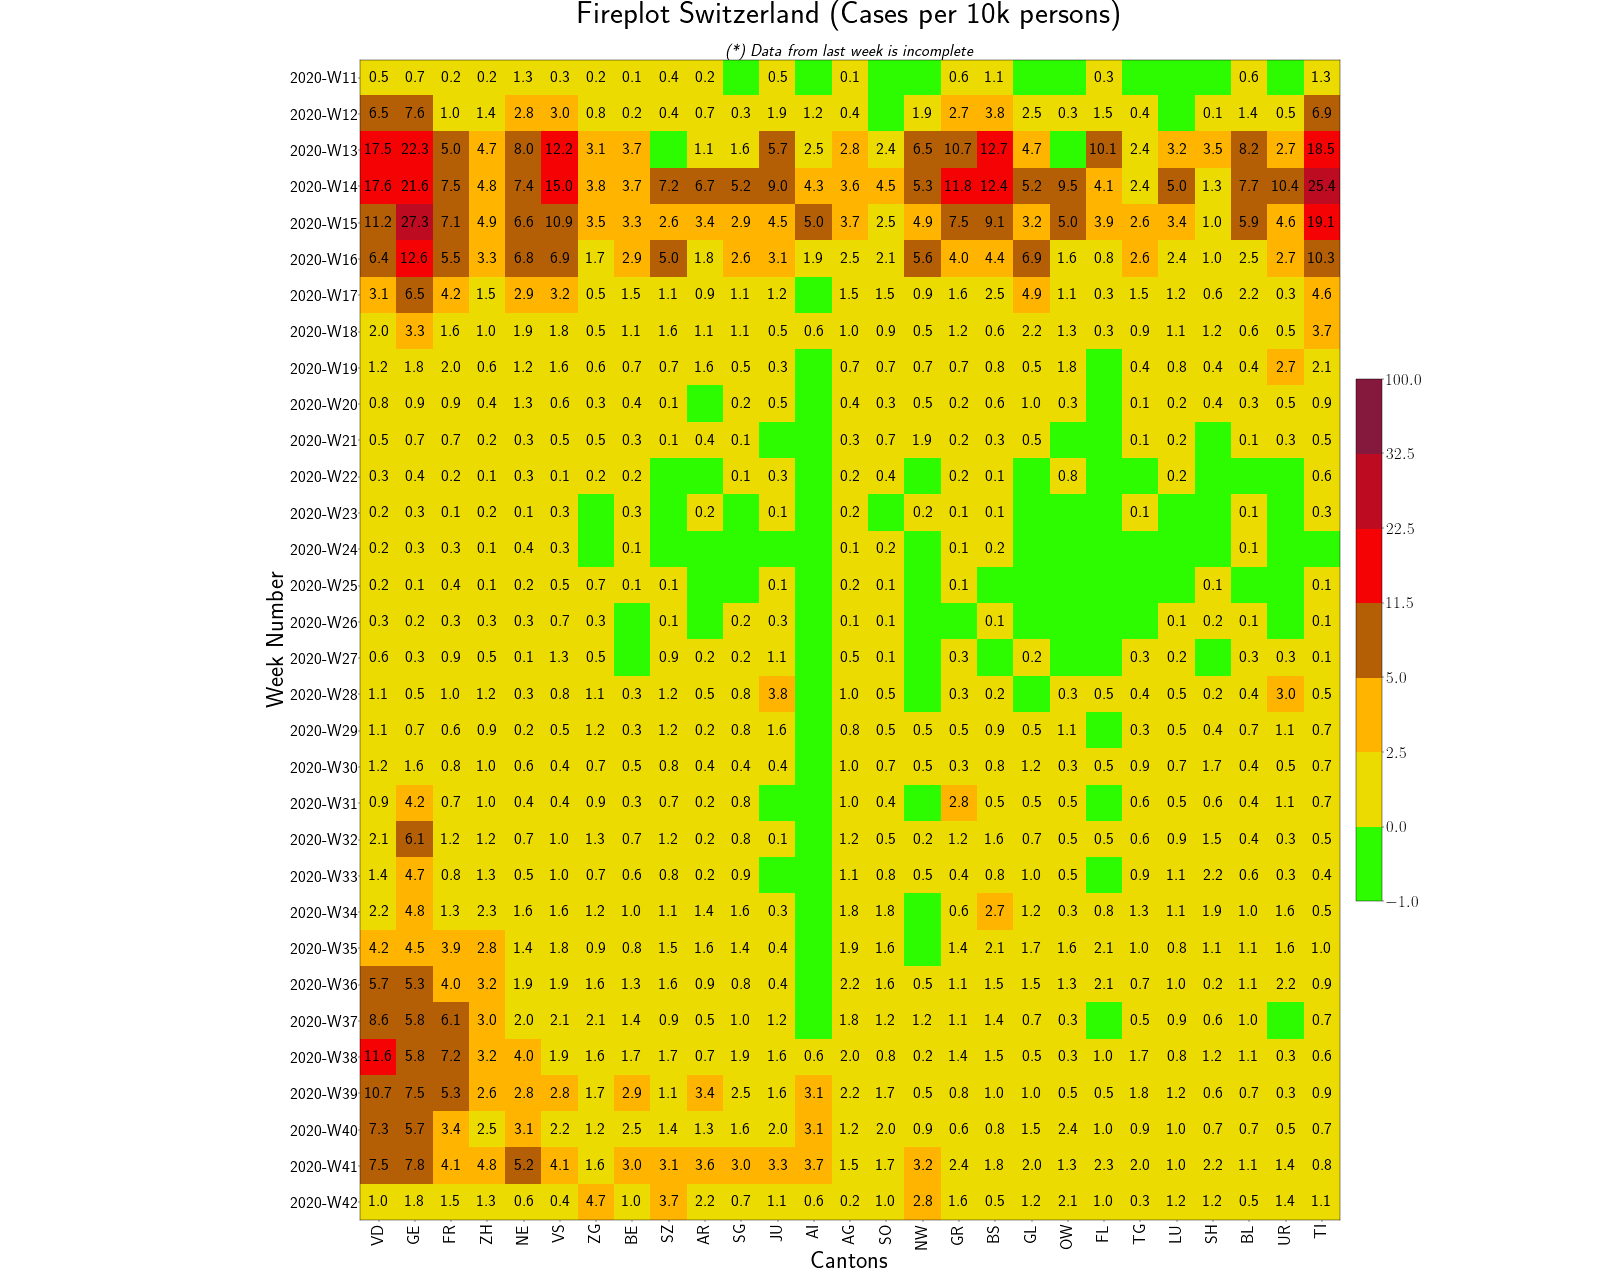
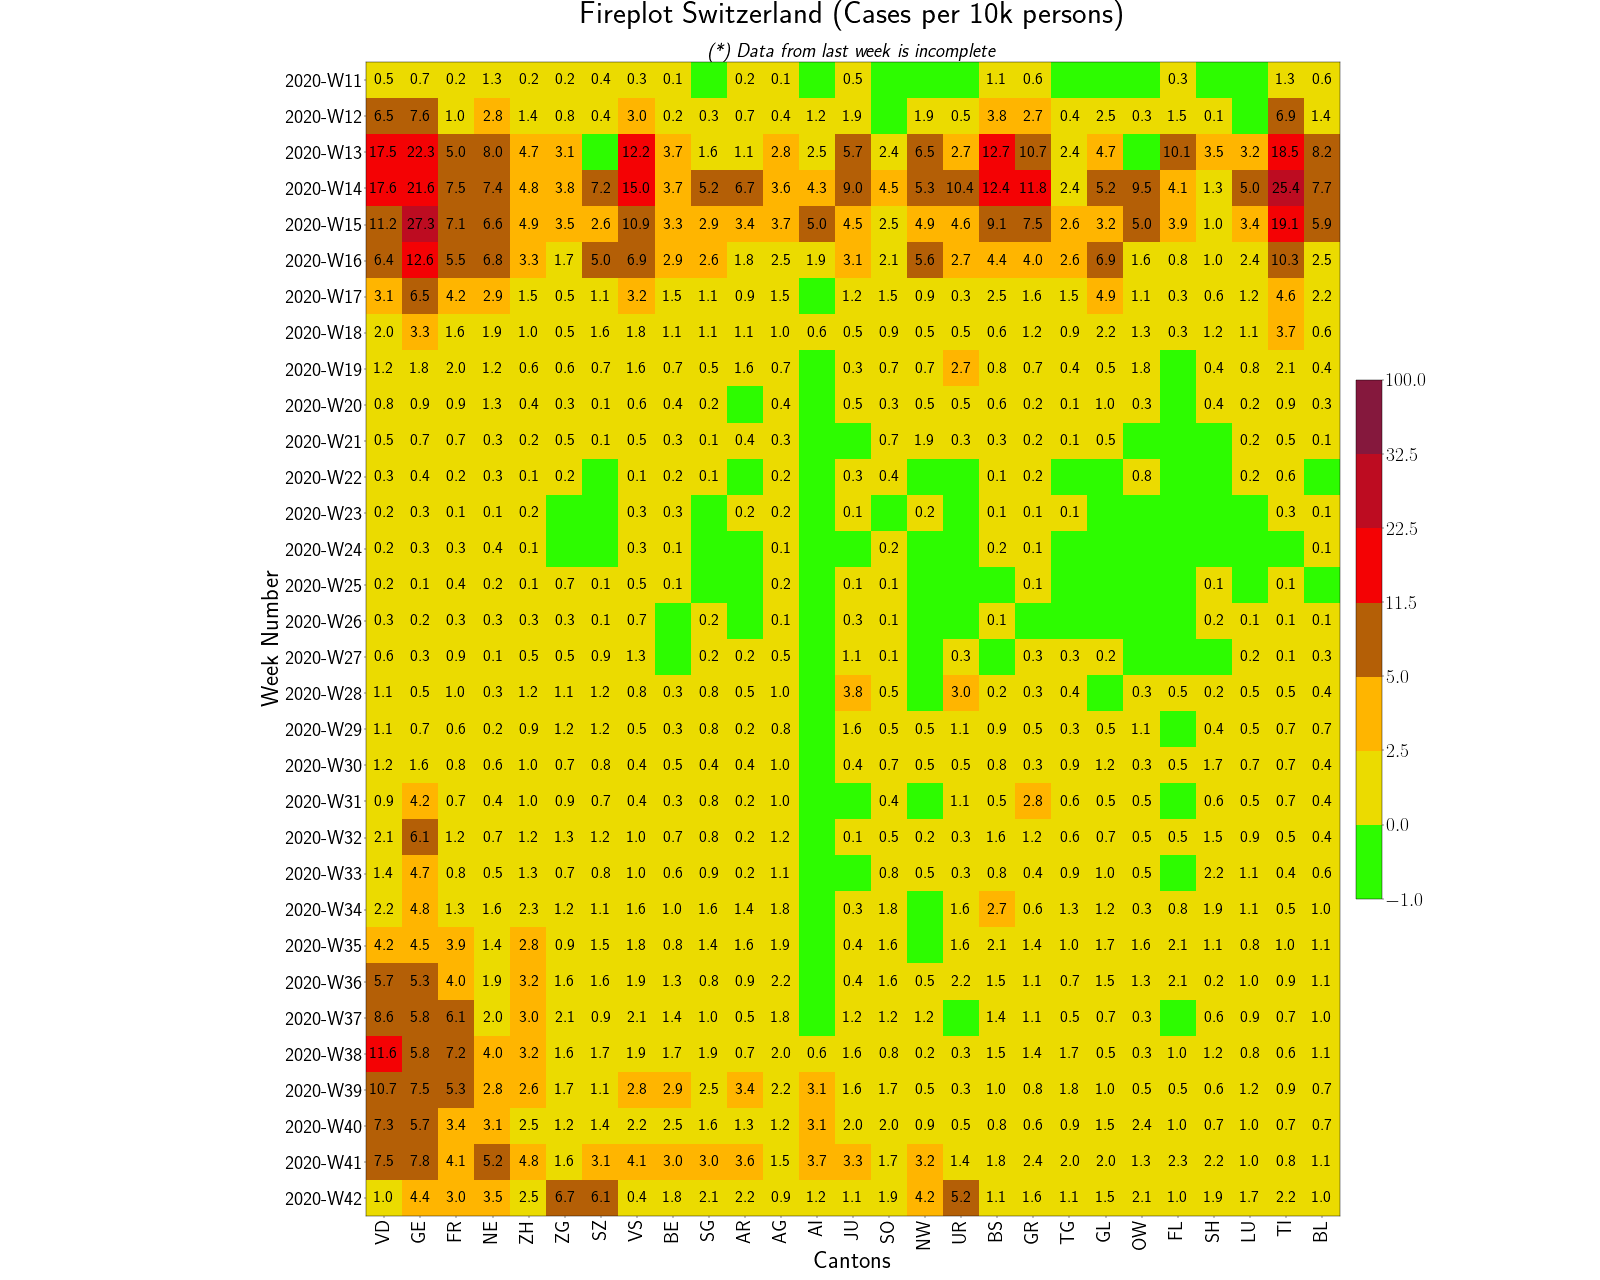
Larger Label Size + Removed Negative Cases

Changed region(s): [[0.1562, 0.0, 0.8438, 1.0]]

diff --git a/fireplot.py b/fireplot.py
@@ -22,7 +22,7 @@ def cell_format(num):
     return '%.1f%s' % (num, ['', 'K', 'M', 'G', 'T', 'P'][magnitude])
 
 
-def fireplot(df, country, start_time=None, most_recent=0, save=True, show=False, fontsize=30, labelsize=30, titlesize=56, Title=None, show_sum=True, grouped_by_week=False, xlabel=None, caption=None, adjustment_factor_y=1.0, legend=False, per_capita=False, compress=True):
+def fireplot(df, country, start_time=None, most_recent=0, save=True, show=False, fontsize=30, labelsize=35, titlesize=56, Title=None, show_sum=True, grouped_by_week=False, xlabel=None, caption=None, adjustment_factor_y=1.0, legend=False, per_capita=False, compress=True):
     # trimming the df
     if caption:
         plt.rc('text', usetex=True)
@@ -59,7 +59,7 @@ def fireplot(df, country, start_time=None, most_recent=0, save=True, show=False,
         bounds=[-1, 0.001, 0.25, 0.5, 1.15, 2.25, 3.25, 10]
         bounds=[-1, 0.01, 2.5, 5, 11.5, 22.5, 32.5, 100]
     else:
-        bounds=[-100000,0.5,9.5,29.5,99.5,999.5,9999.5,100000]
+        bounds=[-1,0.5,9.5,29.5,99.5,999.5,9999.5,100000]
     cmap = colors.ListedColormap(['#2DFC00','#EBDB00','#FFB500','#B45F06', '#F40204','#BD0C21','#85183D'])
     
     if per_capita:
@@ -143,6 +143,8 @@ def fireplot(df, country, start_time=None, most_recent=0, save=True, show=False,
     print(f'Finished with {country}. Date: {date}')
 
 
+def negative_to_zero(x):
+    return max(x,0)
 
 
 def Brazil():
@@ -150,13 +152,13 @@ def Brazil():
     df = pd.read_csv('https://raw.githubusercontent.com/wcota/covid19br/master/cases-brazil-states.csv')
     df = df.pivot_table(index='date',columns='state',values='newCases').fillna(0).drop('TOTAL',axis=1).fillna(0).astype(int)
     df = df[df.sum().sort_values(ascending=False).index]
+    df[df.columns] = df[df.columns].applymap(negative_to_zero)
 
     df['WOY'] = pd.to_datetime(df.index, format='%Y-%m-%d').weekofyear.astype(str) # week of year column
     strptm = lambda s: datetime.strptime('2020-'+s+'-1', "%Y-%W-%w")
     df['WOY'] = df['WOY'].map(strptm).astype(str)
     df_c=df.groupby(['WOY']).sum()
     #print(df_c)
-    plt.rc('text', usetex=True)
     #fireplot(df_c, country='Brazil', grouped_by_week=True, caption=r'(*) Data from last week is incomplete', xlabel='States', adjustment_factor_y=3)
     fireplot(df_c, country='Brazil', grouped_by_week=True, caption=r'(*) Data from last week is incomplete', xlabel='States', adjustment_factor_y=1.1, legend=True)
 
@@ -168,6 +170,8 @@ def USA(partitions=None):
     df = df[df.iloc[-1].sort_values(ascending=False).index].diff()
     df.index.rename('US', inplace=True)
     df = df.fillna(0).astype(int)
+    df[df.columns] = df[df.columns].applymap(negative_to_zero)
+    #print(df)
     
     df['WOY'] = pd.to_datetime(df.index, format='%Y-%m-%d').weekofyear.astype(str) # week of year column
     strptm = lambda s: datetime.strptime('2020-'+s+'-1', "%Y-%W-%w")
@@ -220,17 +224,17 @@ def USA_by_region():
 
     add_pop = lambda s: pop_dict[s]
     df['Population'] = df['Region'].map(add_pop)
-    df['Per Capita Cases'] = df['cases']/df['Population'] * 10000
-
+    df['Per Capita Cases'] = (df['cases']/df['Population'] * 10000)
     df = df.pivot(index='date',columns='Region',values='Per Capita Cases').iloc[32:]
     df = df[df.iloc[-1].sort_values(ascending=False).index].diff().fillna(0)
+    df[df.columns] = df[df.columns].applymap(negative_to_zero)
+    
     df['WOY'] = pd.to_datetime(df.index, format='%Y-%m-%d').weekofyear.astype(str) # week of year column
     strptm = lambda s: datetime.strptime('2020-'+s+'-1', "%Y-%W-%w")
     df['WOY'] = df['WOY'].map(strptm).astype(str)
     df=df.groupby(['WOY']).sum()
     df[df.columns] = df[df.columns].applymap('{:.1f}'.format).applymap(float)
     fireplot(df, country='USA Regions', Title='Fireplot US Regions (Cases per 10k persons)', grouped_by_week=True, caption=r'(*) Data from last week is incomplete', xlabel='Regions', legend=True, per_capita=True)
-
 
 
 def USA_per_capita(partitions=None):
@@ -253,6 +257,8 @@ def USA_per_capita(partitions=None):
 
     df = df.pivot(index='date', columns='state', values='Per Capita Cases')
     df = df[df.iloc[-1].sort_values(ascending=False).index].diff().fillna(0)
+    df[df.columns] = df[df.columns].applymap(negative_to_zero)
+    
     df['WOY'] = pd.to_datetime(df.index, format='%Y-%m-%d').weekofyear.astype(str) # week of year column
     strptm = lambda s: datetime.strptime('2020-'+s+'-1', "%Y-%W-%w")
     df['WOY'] = df['WOY'].map(strptm).astype(str)
@@ -330,6 +336,7 @@ def Italy():
     # df.data = pd.to_datetime(df.data)
     df = df.pivot_table(index='data',columns='denominazione_regione',values='nuovi_positivi')
     df = df[df.sum().sort_values(ascending=False).index]
+    df[df.columns] = df[df.columns].applymap(negative_to_zero)
 
     df['WOY'] = pd.to_datetime(df.index, format='%Y-%m-%d').weekofyear.astype(str) # week of year column
     strptm = lambda s: datetime.strptime('2020-'+s+'-1', "%Y-%W-%w")
@@ -369,6 +376,8 @@ def Italy_PC():
 
     df = df.pivot(index='data', columns='denominazione_regione', values='Per Capita Cases')
     df = df[df.iloc[-1].sort_values(ascending=False).index].diff().fillna(0)
+    df[df.columns] = df[df.columns].applymap(negative_to_zero)
+    
     df['WOY'] = pd.to_datetime(df.index, format='%Y-%m-%d').weekofyear.astype(str) # week of year column
     strptm = lambda s: datetime.strptime('2020-'+s+'-1', "%Y-%W-%w")
     df['WOY'] = df['WOY'].map(strptm).astype(str)
@@ -437,13 +446,14 @@ def Switzerland():
     df = pd.read_csv('https://raw.githubusercontent.com/openZH/covid_19/master/COVID19_Fallzahlen_CH_total_v2.csv')
     df = df.pivot(index='date', columns='abbreviation_canton_and_fl', values='ncumul_conf')
     df[df.columns] = df[df.columns].fillna(method='ffill').fillna(0).diff().fillna(0).astype(int)
+    df[df.columns] = df[df.columns].applymap(negative_to_zero)
 
     df['WOY'] = pd.to_datetime(df.index, format='%Y-%m-%d').weekofyear.astype(str) # week of year column
     strptm = lambda s: datetime.strptime('2020-'+s+'-1', "%Y-%W-%w")
     df['WOY'] = df['WOY'].map(strptm).astype(str)
     df=df.groupby(['WOY']).sum()
     df = df[df.tail(7).sum().sort_values(ascending=False).index]
-    print(df)
+    #print(df)
     
     fireplot(df, country='Switzerland', grouped_by_week=True, caption=r'(*) Data from last week is incomplete', xlabel='Cantons', legend=True)
 
@@ -464,6 +474,7 @@ def Switzerland_PC():
     def divide_by_pop(x):
         return (x/pop_dict[x.name]) * 10000
     df = df[df.columns].apply(divide_by_pop, axis=0)
+    df[df.columns] = df[df.columns].applymap(negative_to_zero)
 
     df['WOY'] = pd.to_datetime(df.index, format='%Y-%m-%d').weekofyear.astype(str) # week of year column
     strptm = lambda s: datetime.strptime('2020-'+s+'-1', "%Y-%W-%w")
@@ -472,7 +483,7 @@ def Switzerland_PC():
     df = df[df.tail(7).sum().sort_values(ascending=False).index]
     
     df[df.columns] = df[df.columns].applymap('{:.1f}'.format).applymap(float)
-    print(df)
+    #print(df)
     fireplot(df, country='Switzerland', Title='Fireplot Switzerland (Cases per 10k persons)',  grouped_by_week=True, caption=r'(*) Data from last week is incomplete', xlabel='Cantons', legend=True, per_capita=True)
 
 
@@ -494,6 +505,8 @@ def Zurich():
 def Sweden():    
     print('Creating Fireplot for Sweden')
     df = pd.read_excel('https://fohm.maps.arcgis.com/sharing/rest/content/items/b5e7488e117749c19881cce45db13f7e/data').drop('Totalt_antal_fall', axis=1)
+    df[df.columns[1:]] = df[df.columns[1:]].applymap(negative_to_zero)
+    
     df['WOY'] = pd.to_datetime(df['Statistikdatum'], format='%Y-%m-%d').map(lambda x: str(x.weekofyear)) # week of year column
     strptm = lambda s: datetime.strptime('2020-'+s+'-1', "%Y-%W-%w")
     df['WOY'] = df['WOY'].map(strptm).astype(str)
@@ -527,6 +540,8 @@ def Sweden_PC():
     df.index = df['Statistikdatum']
     df = df.drop('Statistikdatum', axis=1)
     df = df.apply(test)
+    df[df.columns[1:]] = df[df.columns[1:]].applymap(negative_to_zero)
+    print(df)
     df = df[df.iloc[-1].sort_values(ascending=False).index].fillna(0)
 
     df['WOY'] = pd.to_datetime(df.index, format='%Y-%m-%d').weekofyear.astype(str) # week of year column
@@ -537,7 +552,7 @@ def Sweden_PC():
     #df = df[df.tail(7).sum().sort_values(ascending=False).index]
     df = df[df.sum().sort_values(ascending=False).index]
 
-    print(df)
+    #print(df)
     fireplot(df, country='Sweden', Title='Fireplot Sweden (Cases per 10k persons)',  grouped_by_week=True, caption=r'(*) Data from last week is incomplete', xlabel='Provinces', legend=True, per_capita=True)
 
     return   
@@ -547,6 +562,7 @@ def Australia():
     print('Creating Fireplot for Australia')
     df = pd.read_csv('https://raw.githubusercontent.com/M3IT/COVID-19_Data/master/Data/COVID_AU_state.csv')
     df=df.pivot_table(index='date', columns='state', values='confirmed')
+    df[df.columns] = df[df.columns].applymap(negative_to_zero)
 
     df['WOY'] = pd.to_datetime(df.index, format='%Y-%m-%d').weekofyear.astype(str) # week of year column
     strptm = lambda s: datetime.strptime('2020-'+s+'-1', "%Y-%W-%w")
@@ -554,7 +570,7 @@ def Australia():
     df=df.groupby(['WOY']).sum()
     df = df[df.sum().sort_values(ascending=False).index]
 
-    print(df) 
+    #print(df) 
     fireplot(df, country='Australia', Title='Fireplot Australia (Cases)', grouped_by_week=True, caption=r'(*) Data from last week is incomplete', xlabel='Provinces', legend=True)
 
 def Australia_PC():
@@ -572,6 +588,8 @@ def Australia_PC():
 
     df = pd.read_csv('https://raw.githubusercontent.com/M3IT/COVID-19_Data/master/Data/COVID_AU_state.csv')
     df=df.pivot_table(index='date', columns='state', values='confirmed')
+    df[df.columns] = df[df.columns].applymap(negative_to_zero)
+    
     df['WOY'] = pd.to_datetime(df.index, format='%Y-%m-%d').weekofyear.astype(str) # week of year column
     strptm = lambda s: datetime.strptime('2020-'+s+'-1', "%Y-%W-%w")
     df['WOY'] = df['WOY'].map(strptm).astype(str)
@@ -596,7 +614,7 @@ def compression():
 
 
 if __name__ == "__main__":
-    PARALLEL = True
+    PARALLEL = False
 
     if PARALLEL:
         print('Using Parallel')
@@ -616,10 +634,10 @@ if __name__ == "__main__":
         print('Not using Parallel')
         #Brazil()
         #Russia() # Data wierd
-        #USA_per_capita(partitions=0)
-        #USA_per_capita(partitions=3)
         #USA(partitions=0)
         #USA_by_region()
+        #USA_per_capita(partitions=0)
+        #USA_per_capita(partitions=3)
         #Spain() # Data Incomplete
         #UK() # Data Incomplete
         #Italy()
